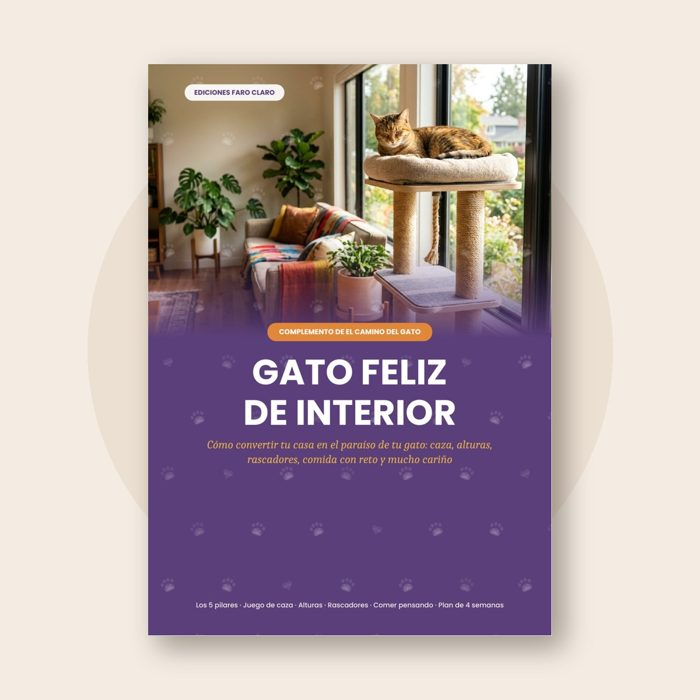
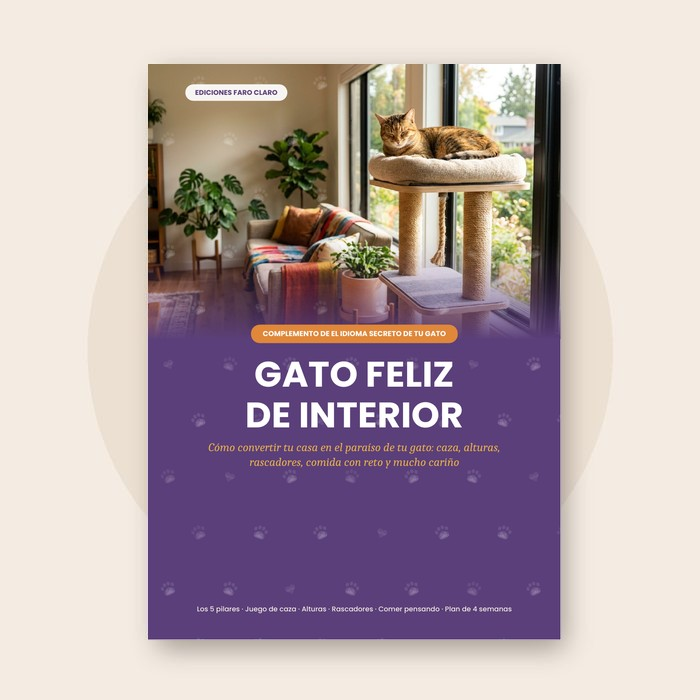
Renombrar libros: El idioma secreto de tu perro / de tu gato (textos y portadas)
Claude-Session: https://claude.ai/code/session_01FBVLu2piM2bC3wxYGrNDZH

diff --git a/perro.html b/perro.html
@@ -1,9 +1,9 @@
 <!doctype html>
 <html lang="es"><head><meta charset="utf-8">
 <meta name="viewport" content="width=device-width,initial-scale=1">
-<title>El Camino del Perro · 30 días para entender de verdad a tu perro</title>
+<title>El idioma secreto de tu perro · 30 días para entender de verdad a tu perro</title>
 <meta name="description" content="Libro interactivo de 30 días con retos, curiosidades y consejos para entender a tu perro y hacerle más feliz. PDF para móvil o para imprimir.">
-<meta property="og:title" content="El Camino del Perro · 30 días para entender de verdad a tu perro">
+<meta property="og:title" content="El idioma secreto de tu perro · 30 días para entender de verdad a tu perro">
 <meta property="og:description" content="Cada día, algo nuevo sobre tu mejor amigo. Retos, curiosidades y cuidados en un libro interactivo de 30 días.">
 <meta property="og:image" content="https://juancg238.github.io/ofertas/img/p1.jpg">
 <link rel="preconnect" href="https://fonts.googleapis.com">
@@ -64,8 +64,8 @@ footer{text-align:center;font-size:14px;color:var(--muted);padding:30px 16px 90p
 </style><!-- Meta Pixel -->
 <script>
 !function(f,b,e,v,n,t,s){if(f.fbq)return;n=f.fbq=function(){n.callMethod?n.callMethod.apply(n,arguments):n.queue.push(arguments)};if(!f._fbq)f._fbq=n;n.push=n;n.loaded=!0;n.version='2.0';n.queue=[];t=b.createElement(e);t.async=!0;t.src=v;s=b.getElementsByTagName(e)[0];s.parentNode.insertBefore(t,s)}(window,document,'script','https://connect.facebook.net/en_US/fbevents.js');
-fbq('init','2260347131428457');fbq('track','PageView');fbq('track','ViewContent',{content_name:'El Camino del Perro',value:17,currency:'EUR'});
-document.addEventListener('click',function(e){var a=e.target.closest('a[href*="pay.hotmart.com"]');if(a){fbq('track','InitiateCheckout',{content_name:'El Camino del Perro',value:17,currency:'EUR'});}});
+fbq('init','2260347131428457');fbq('track','PageView');fbq('track','ViewContent',{content_name:'El idioma secreto de tu perro',value:17,currency:'EUR'});
+document.addEventListener('click',function(e){var a=e.target.closest('a[href*="pay.hotmart.com"]');if(a){fbq('track','InitiateCheckout',{content_name:'El idioma secreto de tu perro',value:17,currency:'EUR'});}});
 </script>
 <!-- End Meta Pixel -->
 </head>
@@ -99,7 +99,7 @@ document.addEventListener('click',function(e){var a=e.target.closest('a[href*="p
     <img class="round" src="img/perro_caricia.jpg" alt="Caricia a un perro">
     <div>
       <h2 style="text-align:left">Un camino de 30 días, paso a paso</h2>
-      <p><b>El Camino del Perro</b> es un libro interactivo dividido en 6 estaciones. Cada día descubres algo nuevo sobre tu perro, en pocos minutos y sin teoría aburrida.</p>
+      <p><b>El idioma secreto de tu perro</b> es un libro interactivo dividido en 6 estaciones. Cada día descubres algo nuevo sobre tu perro, en pocos minutos y sin teoría aburrida.</p>
       <p>Las respuestas de cada reto forman una <b>frase secreta</b> que descubrirás el último día.</p>
     </div>
   </div>
@@ -162,8 +162,8 @@ document.addEventListener('click',function(e){var a=e.target.closest('a[href*="p
 <section id="comprar">
   <div class="wrap">
     <div class="offer">
-      <img src="img/p1.jpg" alt="Portada de El Camino del Perro">
-      <h2>El Camino del Perro</h2>
+      <img src="img/p1.jpg" alt="Portada de El idioma secreto de tu perro">
+      <h2>El idioma secreto de tu perro</h2>
       <p style="margin:0;color:var(--muted)">30 días para descubrir lo que aún no sabes de tu mejor amigo</p>
       <div class="price">17 €</div>
       <div style="color:var(--muted);font-size:15px">Pago único · IVA incluido · PDF de 55 páginas</div>
@@ -172,7 +172,7 @@ document.addEventListener('click',function(e){var a=e.target.closest('a[href*="p
         <li>Para leer en el móvil, la tablet o imprimir</li>
         <li>Pago seguro con tarjeta a través de Hotmart</li>
       </ul>
-      <a class="btn block" href="https://pay.hotmart.com/P108189340A?off=1bmj8m1f&checkoutMode=10">Sí, quiero El Camino del Perro</a>
+      <a class="btn block" href="https://pay.hotmart.com/P108189340A?off=1bmj8m1f&checkoutMode=10">Sí, quiero El idioma secreto de tu perro</a>
       <div class="guar"><span>🛡</span><div><b>Garantía de 7 días.</b> Si no te convence, pides la devolución desde Hotmart y te devolvemos el dinero.</div></div>
     </div>
   </div>

diff --git a/gato.html b/gato.html
@@ -1,9 +1,9 @@
 <!doctype html>
 <html lang="es"><head><meta charset="utf-8">
 <meta name="viewport" content="width=device-width,initial-scale=1">
-<title>El Camino del Gato · 30 días para entender de verdad a tu gato</title>
+<title>El idioma secreto de tu gato · 30 días para entender de verdad a tu gato</title>
 <meta name="description" content="Libro interactivo de 30 días con retos, curiosidades y consejos para entender a tu gato y hacerle más feliz. PDF para móvil o para imprimir.">
-<meta property="og:title" content="El Camino del Gato · 30 días para entender de verdad a tu gato">
+<meta property="og:title" content="El idioma secreto de tu gato · 30 días para entender de verdad a tu gato">
 <meta property="og:description" content="Cada día, algo nuevo sobre tu gato. Retos, curiosidades y cuidados en un libro interactivo de 30 días.">
 <meta property="og:image" content="https://juancg238.github.io/ofertas/img/g1.jpg">
 <link rel="preconnect" href="https://fonts.googleapis.com">
@@ -64,8 +64,8 @@ footer{text-align:center;font-size:14px;color:var(--muted);padding:30px 16px 90p
 </style><!-- Meta Pixel -->
 <script>
 !function(f,b,e,v,n,t,s){if(f.fbq)return;n=f.fbq=function(){n.callMethod?n.callMethod.apply(n,arguments):n.queue.push(arguments)};if(!f._fbq)f._fbq=n;n.push=n;n.loaded=!0;n.version='2.0';n.queue=[];t=b.createElement(e);t.async=!0;t.src=v;s=b.getElementsByTagName(e)[0];s.parentNode.insertBefore(t,s)}(window,document,'script','https://connect.facebook.net/en_US/fbevents.js');
-fbq('init','2260347131428457');fbq('track','PageView');fbq('track','ViewContent',{content_name:'El Camino del Gato',value:17,currency:'EUR'});
-document.addEventListener('click',function(e){var a=e.target.closest('a[href*="pay.hotmart.com"]');if(a){fbq('track','InitiateCheckout',{content_name:'El Camino del Gato',value:17,currency:'EUR'});}});
+fbq('init','2260347131428457');fbq('track','PageView');fbq('track','ViewContent',{content_name:'El idioma secreto de tu gato',value:17,currency:'EUR'});
+document.addEventListener('click',function(e){var a=e.target.closest('a[href*="pay.hotmart.com"]');if(a){fbq('track','InitiateCheckout',{content_name:'El idioma secreto de tu gato',value:17,currency:'EUR'});}});
 </script>
 <!-- End Meta Pixel -->
 </head>
@@ -99,7 +99,7 @@ document.addEventListener('click',function(e){var a=e.target.closest('a[href*="p
     <img class="round" src="img/gato_abrazo.jpg" alt="Abrazo a un gato">
     <div>
       <h2 style="text-align:left">Un camino de 30 días, paso a paso</h2>
-      <p><b>El Camino del Gato</b> es un libro interactivo dividido en 6 estaciones. Cada día descubres algo nuevo sobre tu gato, en pocos minutos y sin teoría aburrida.</p>
+      <p><b>El idioma secreto de tu gato</b> es un libro interactivo dividido en 6 estaciones. Cada día descubres algo nuevo sobre tu gato, en pocos minutos y sin teoría aburrida.</p>
       <p>Las respuestas de cada reto forman una <b>frase secreta</b> que descubrirás el último día.</p>
     </div>
   </div>
@@ -162,8 +162,8 @@ document.addEventListener('click',function(e){var a=e.target.closest('a[href*="p
 <section id="comprar">
   <div class="wrap">
     <div class="offer">
-      <img src="img/g1.jpg" alt="Portada de El Camino del Gato">
-      <h2>El Camino del Gato</h2>
+      <img src="img/g1.jpg" alt="Portada de El idioma secreto de tu gato">
+      <h2>El idioma secreto de tu gato</h2>
       <p style="margin:0;color:var(--muted)">30 días para descubrir lo que aún no sabes de tu gato</p>
       <div class="price">17 €</div>
       <div style="color:var(--muted);font-size:15px">Pago único · IVA incluido · PDF de 56 páginas</div>
@@ -172,7 +172,7 @@ document.addEventListener('click',function(e){var a=e.target.closest('a[href*="p
         <li>Para leer en el móvil, la tablet o imprimir</li>
         <li>Pago seguro con tarjeta a través de Hotmart</li>
       </ul>
-      <a class="btn block" href="https://pay.hotmart.com/H108192539N?off=klggnd3p&checkoutMode=10">Sí, quiero El Camino del Gato</a>
+      <a class="btn block" href="https://pay.hotmart.com/H108192539N?off=klggnd3p&checkoutMode=10">Sí, quiero El idioma secreto de tu gato</a>
       <div class="guar"><span>🛡</span><div><b>Garantía de 7 días.</b> Si no te convence, pides la devolución desde Hotmart y te devolvemos el dinero.</div></div>
     </div>
   </div>

diff --git a/index.html b/index.html
@@ -3,7 +3,7 @@
 <meta name="viewport" content="width=device-width,initial-scale=1">
 <title>Ediciones Faro Claro · Libros para entender a tu mascota</title>
 <meta property="og:title" content="Ediciones Faro Claro · Libros para entender a tu mascota">
-<meta property="og:description" content="El Camino del Perro y El Camino del Gato: 30 días para entender de verdad a tu mascota.">
+<meta property="og:description" content="El idioma secreto de tu perro y El idioma secreto de tu gato: 30 días para entender de verdad a tu mascota.">
 <meta property="og:image" content="https://juancg238.github.io/ofertas/img/p1.jpg">
 <link href="https://fonts.googleapis.com/css2?family=Fraunces:opsz,wght@9..144,700&family=Nunito:wght@400;700&display=swap" rel="stylesheet">
 <style>
@@ -22,7 +22,7 @@ footer{font-size:13px;color:#7a6352;margin-top:20px}
 <body><div class="wrap">
 <h1>Entiende de verdad a tu mascota</h1>
 <p class="sub">Libros de 30 días · PDF · Descarga inmediata</p>
-<a class="book" href="perro.html"><img src="img/p1.jpg" alt="El Camino del Perro"><div><b>El Camino del Perro</b>30 días para entender a tu perro<br><span>Ver libro · 17 €</span></div></a>
-<a class="book gato" href="gato.html"><img src="img/g1.jpg" alt="El Camino del Gato"><div><b>El Camino del Gato</b>30 días para entender a tu gato<br><span>Ver libro · 17 €</span></div></a>
+<a class="book" href="perro.html"><img src="img/p1.jpg" alt="El idioma secreto de tu perro"><div><b>El idioma secreto de tu perro</b>30 días para entender a tu perro<br><span>Ver libro · 17 €</span></div></a>
+<a class="book gato" href="gato.html"><img src="img/g1.jpg" alt="El idioma secreto de tu gato"><div><b>El idioma secreto de tu gato</b>30 días para entender a tu gato<br><span>Ver libro · 17 €</span></div></a>
 <footer>Ediciones Faro Claro · Pago seguro con Hotmart · Garantía de 7 días</footer>
 </div></body></html>
